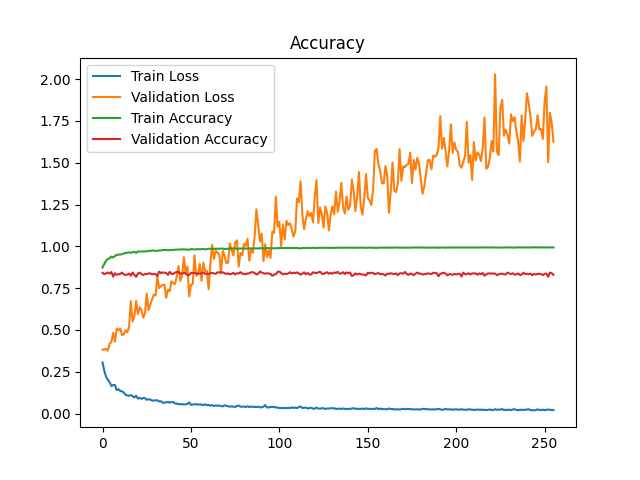
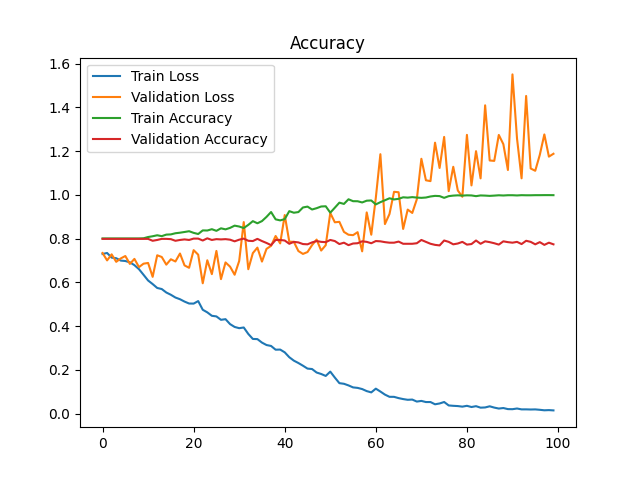
chore: Update preprocessing.py to load test data without labels

diff --git a/train.py b/train.py
@@ -10,13 +10,14 @@ from sklearn.metrics import f1_score
 
 device = torch.device('cuda:2' if torch.cuda.is_available() else 'cpu')
 
-def train(model,train_dataloader,val_dataloader,criterion,optimizer,device,num_epochs=10):
+def train(model,train_dataloader,val_dataloader,criterion,optimizer,device,num_epochs,args):
     
     train_losses=[]
     train_accuracies=[]
     val_losses=[]
     val_accuracies=[]
     max_accuracy=0
+    max_f1_score=0
     
     model.train()
     model.to(device)
@@ -35,10 +36,12 @@ def train(model,train_dataloader,val_dataloader,criterion,optimizer,device,num_e
         train_accuracy, train_loss ,_= evaluate(model, train_dataloader,criterion,device)
         val_accuracy, val_loss ,fl_score= evaluate(model, val_dataloader,criterion,device)
         max_accuracy=max(max_accuracy,val_accuracy)
+        max_f1_score=max(max_f1_score,fl_score)
         print(f'Train Accuracy: {train_accuracy} Train Loss: {train_loss}')
         print(f'validation Accuracy: {val_accuracy} validation Loss: {val_loss}')
         print(f'F1 Score: {fl_score}')
         print(f'Max Accuracy acheived till now: {max_accuracy}')
+        print(f'Max F1 Score acheived till now: {max_f1_score}')
         
         train_losses.append(train_loss)
         train_accuracies.append(train_accuracy)
@@ -54,7 +57,8 @@ def train(model,train_dataloader,val_dataloader,criterion,optimizer,device,num_e
     plot_loss_accuracy('plots/',train_losses,train_accuracies,val_losses,val_accuracies)
     
  
-    torch.save(model.state_dict(), f'models/{args.model}_model.pth')
+    # torch.save(model.state_dict(), f'models/{args.model}_model.pth')
+    torch.save(model.state_dict(),f'models/{args.dataset}/{args.model}_model.pth')
     
     print("Model trained and saved successfully in path ",f'models/{args.model}_model.pth')
     
@@ -82,9 +86,12 @@ def evaluate(model, dataloader,criterion,device):
                 
         accuracy = correct / total
         avg_loss = total_loss / len(dataloader)
-        f1_score_macro=f1_score(all_labels,all_predictions,average='weighted')
-        return accuracy, avg_loss ,f1_score_macro
+        # f1_score_macro=f1_score(all_labels,all_predictions,average='weighted')
+        # calculate f1_score_mini
+        f1_score_mini=f1_score(all_labels,all_predictions,average='micro')
+        return accuracy, avg_loss ,f1_score_mini
     
+
     
 def plot_loss_accuracy(path,train_loss,train_accuracy,val_loss,val_accuracy):
     
@@ -107,33 +114,64 @@ if __name__ == '__main__':
     
     parser = argparse.ArgumentParser()
     parser.add_argument('--model', type=str, default='RNN',choices=['RNN','GRU','BI-GRU','CNN'], help='Model to use for training')
+    parser.add_argument('--dataset', type=str, default='electronics',choices=['SST2','electronics'], help='Dataset to use for training')
+    parser.add_argument('--batch_size', type=int, default=256, help='Batch size for training')
+    parser.add_argument('--num_epochs', type=int, default=100, help='Number of epochs for training')
+    parser.add_argument('--learning_rate', type=float, default=0.001, help='Learning rate for training')
+    parser.add_argument('--input_dim', type=int, default=300, help='Input dimension for the model')
+    parser.add_argument('--hidden_dim', type=int, default=100, help='Hidden dimension for the model')
+    parser.add_argument('--test', type=bool, default=False, help='Whether to train the model or test the model')
     args = parser.parse_args()
+    
+    input_dim = args.input_dim
+    hidden_dim = args.hidden_dim
+    num_epochs = args.num_epochs
+    learning_rate = args.learning_rate
+    
+    if args.dataset == 'SST2':
+        train_max_seq_length = 30
+        valid_max_seq_length = 40
+        output_dim = 2
+        X,y = load_data('data/SST2/train.csv', train_max_seq_length,label_shifting=False)
+        train_dataloader = get_dataloader(X, y, batch_size=args.batch_size)
+        X,y = load_data('data/SST2/testdata.csv', valid_max_seq_length,label_shifting=False)
+        val_dataloader = get_dataloader(X, y, batch_size=args.batch_size)
+        
+      
+    else:
+        train_max_seq_length = 50
+        valid_max_seq_length = 100
+        output_dim = 5 
+        X,y = load_data('data.csv', train_max_seq_length,label_shifting=True)
+        train_dataloader = get_dataloader(X, y, batch_size=args.batch_size)
+        X,y = load_data('electronics_validation.csv', valid_max_seq_length,label_shifting=True)
+        val_dataloader = get_dataloader(X, y, batch_size=args.batch_size)
     
     
     #Hyperparameters
-    train_max_seq_length = 30 # use 50 for electronics dataset and 10 for SST2 dataset
-    valid_max_seq_length = 40
-    input_dim = 300
-    hidden_dim = 100
-    output_dim = 2 # 2 for SST2 dataset and 5 for electronics dataset   
-    num_epochs = 256
-    learning_rate = 0.0015 # use 0.001 for electronics dataset and 0.0025 for SST2 dataset
-    batch_size = 64# use 32 for electronics dataset and 1024 for SST2 dataset
+    # train_max_seq_length = 30 # use 50 for electronics dataset and 10 for SST2 dataset
+    # valid_max_seq_length = 40
+    # input_dim = 300
+    # hidden_dim = 100
+    # output_dim = 2 # 2 for SST2 dataset and 5 for electronics dataset   
+    # num_epochs = 256
+    # learning_rate = 0.0015 # use 0.001 for electronics dataset and 0.0025 for SST2 dataset
+    # batch_size = 64# use 32 for electronics dataset and 1024 for SST2 dataset
     
     #Load the preprocessed data
     # X,y = load_data('data.csv', train_max_seq_length)
     
     # X,y = load_data('data/electronics/train.csv', train_max_seq_length)
     
-    X,y = load_data('data/SST2/train.csv', train_max_seq_length,label_shifting=False)
+    # X,y = load_data('data/SST2/train.csv', train_max_seq_length,label_shifting=False)
     
-    # Create the train dataloader
-    train_dataloader = get_dataloader(X, y, batch_size=batch_size)
+    # # Create the train dataloader
+    # train_dataloader = get_dataloader(X, y, batch_size=batch_size)
     
-    # X,y = load_data('data/SST2/validation.csv', valid_max_seq_length,label_shifting=False)
-    # X,y = load_data('electronics_validation.csv', valid_max_seq_length)
-    X,y = load_data('data/SST2/testdata.csv', valid_max_seq_length,label_shifting=False)
-    val_dataloader = get_dataloader(X, y, batch_size=batch_size)
+    # # X,y = load_data('data/SST2/validation.csv', valid_max_seq_length,label_shifting=False)
+    # # X,y = load_data('electronics_validation.csv', valid_max_seq_length)
+    # X,y = load_data('data/SST2/testdata.csv', valid_max_seq_length,label_shifting=False)
+    # val_dataloader = get_dataloader(X, y, batch_size=batch_size)
     
     
     print("Creating the model")
@@ -164,7 +202,8 @@ if __name__ == '__main__':
     
     
     print("Training the model")
-    train(model,train_dataloader,val_dataloader,criterion,optimizer,device,num_epochs=num_epochs)
+    
+    train(model,train_dataloader,val_dataloader,criterion,optimizer,device,num_epochs=num_epochs,args=args)
     
 
     

diff --git a/test.py b/test.py
@@ -3,37 +3,26 @@ import torch.nn as nn
 from torch.utils.data import Dataset, DataLoader
 import pandas as pd
 import numpy as np
-from preprocessing import load_data
-from model import RNNClassifier, GRUClassifier, Bi_GRUClassifier
+from preprocessing import load_test_data
+from model import RNNClassifier, GRUClassifier, Bi_GRUClassifier , CNNClassifier
 from dataloader import get_dataloader
 from eval import evaluate
 from dataloader import TextDataset
 import argparse
 
-# Hyperparameters
-max_seq_length = 20 # use 50 for electronics dataset and 10 for SST2 dataset
-batch_size = 32
-hidden_dim = 128
-output_dim = 2 # 2 for SST2 dataset and 5 for electronics dataset
+max_seq_length = 100 # use 50 for electronics dataset and 10 for SST2 dataset
+hidden_dim = 100
+output_dim = 5 
 input_dim = 300
 
 parser = argparse.ArgumentParser()
-parser.add_argument('--model', type=str, default='RNN',choices=['RNN','GRU','BI-GRU'], help='Model to use for training')
+parser.add_argument('--model', type=str, default='RNN',choices=['RNN','GRU','BI-GRU','CNN'], help='Model to use for training')
 args = parser.parse_args()
 
-
-
-# Load the preprocessed data
 device = torch.device('cuda:2' if torch.cuda.is_available() else 'cpu')
-# X_test, y_test = load_data('data.csv', max_seq_length)
-# X_test,y_test = load_data('electronics_validation.csv', 200)
-X_test,y_test = load_data('data/SST2/validation.csv', max_seq_length, label_shifting=False)
 
-# Create the dataloader
+X_test = load_test_data('electronics_validation.csv', max_seq_length)
 
-test_dataloader = get_dataloader(X_test, y_test, batch_size=batch_size)
-
-# Load the model
 
 if args.model == 'RNN':
     model = RNNClassifier(input_dim, hidden_dim, output_dim).to(device)
@@ -44,17 +33,32 @@ elif args.model == 'BI-GRU':
 elif args.model == 'GRU':
     model = GRUClassifier(input_dim, hidden_dim, output_dim).to(device)
     
-model_path = f'models/{args.model}_model.pth'
+else:
+    model = CNNClassifier(input_dim, output_dim, num_filters=100, filter_sizes=[3,4,5]).to(device)
+    
+model_path = f'models/electronics/{args.model}_model.pth'
     
 print(f'Loading model from {model_path}')
 print(f'model selected: {args.model}')
 
 model.load_state_dict(torch.load(model_path))
-criterion = nn.CrossEntropyLoss()
 
-print("Evaluating the model")
-accuracy, _ ,f1_score= evaluate(model, test_dataloader, criterion, device)
-print(f'Accuracy: {accuracy}')
-print(f'F1 Score: {f1_score}')
+
+def predict(model,X_test):
+    model.eval()
+    predictions = []
+    with torch.no_grad():
+        for i in range(len(X_test)):
+            X = torch.tensor(X_test[i], dtype=torch.float32).unsqueeze(0).to(device)
+            output = model(X)
+            _, predicted = torch.max(output, 1)
+            predictions.append(predicted.item()+1) # add 1 to get the ratings in the range 1-5
+    return predictions
+
+predictions = predict(model,X_test)
+df = pd.DataFrame(predictions)
+df.to_excel('ratings.xlsx',index=False,header=False)
+print("Predictions saved to ratings.xlsx")
+
 
 

diff --git a/preprocessing.py b/preprocessing.py
@@ -67,3 +67,17 @@ def load_data(data_path, max_seq_length,label_shifting=True):
     print("Data Loading completed")
     return X, y
 
+# create the function to load the test data where the labels are not given in the dataset
+def load_test_data(data_path, max_seq_length):
+    
+    # load the data
+    
+    print("Loading data")
+    data = pd.read_csv(data_path)
+    avg_length = avg_sequence_length(data)
+    print(f'Average sequence length: {avg_length}')
+    
+    X = np.array([text_to_vector(text, max_seq_length) for text in data['reviewText']])
+    
+    print("Data Loading completed")
+    return X
